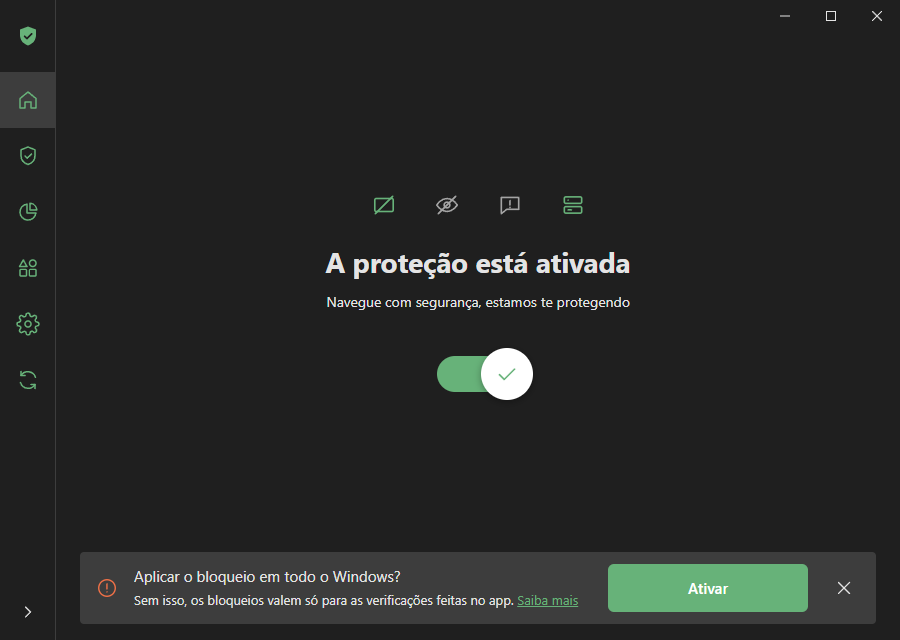
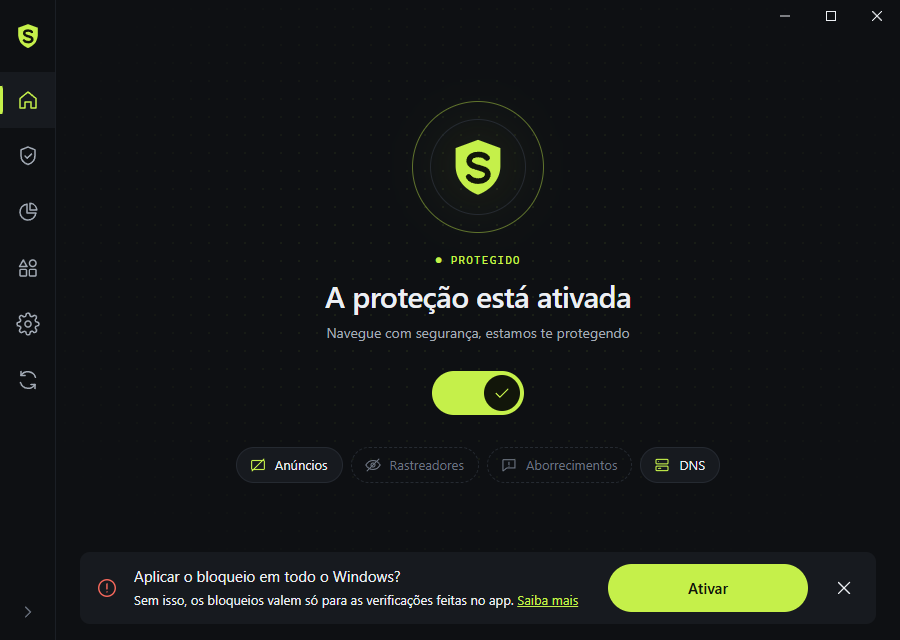
doc

diff --git a/README.md b/README.md
@@ -1,0 +1,132 @@
+<p align="center">
+  <img src="icons/icon.png" width="96" alt="StrickerGuard" />
+</p>
+
+<h1 align="center">StrickerGuard</h1>
+
+<p align="center">Bloqueador de anúncios, rastreadores e sites perigosos para Windows.</p>
+
+<p align="center">
+  <img src="shots/now.png" width="600" alt="Tela inicial" />
+</p>
+
+StrickerGuard é um app de bandeja para Windows feito com Tauri 2 (Rust) e TypeScript + Tailwind.
+Ele baixa listas de filtros públicas, avalia as regras localmente e, se você permitir, aplica o
+bloqueio no Windows inteiro pelo arquivo `hosts` e pela troca do servidor DNS.
+
+## Recursos
+
+- **Bloqueio de anúncios**, **proteção contra rastreamento**, **bloqueio de aborrecimentos**
+  (avisos de cookies, pop-ups, widgets) e **segurança da navegação** (phishing e malware).
+- **Proteção de DNS**: escolha de servidor DNS (com teste de latência) e regras de DNS próprias.
+- **Controle parental** com lista de bloqueio própria.
+- **Regras de usuário** e **lista de permissões** de sites.
+- **Registro de filtragem**: teste uma URL ou domínio, veja por que foi bloqueado e crie uma regra
+  de bloquear/desbloquear com um clique.
+- **Estatísticas** por período (24 h, 7 d, 14 d, tudo), domínios mais bloqueados e apps.
+- **Gerenciamento de aplicativos**: escolha quais `.exe` têm o tráfego filtrado.
+- Ícone na bandeja que muda conforme a proteção, opção de iniciar com o Windows, tema claro/escuro.
+
+## Como o bloqueio funciona
+
+| Camada | O que faz | Precisa de admin |
+| --- | --- | --- |
+| Motor de regras (`src/engine.rs`) | Lê regras no formato adblock, linhas de hosts e regras de DNS, e responde se uma URL/host é bloqueado. Usado pelo Registro de filtragem e pelas estatísticas. | Não |
+| Arquivo `hosts` | Grava os domínios bloqueados (até 50.000) num bloco delimitado em `C:\Windows\System32\drivers\etc\hosts` e roda `ipconfig /flushdns`. Ao desligar, o bloco é removido. | Sim |
+| DNS do sistema | Troca o DNS dos adaptadores ativos pelo servidor escolhido (PowerShell `Set-DnsClientServerAddress`); volta ao automático ao desligar. | Sim |
+
+O bloqueio no sistema é opcional ("Aplicar o bloqueio em todo o Windows?" na tela inicial). Sem
+permissão de administrador o app funciona, mas os bloqueios valem só para as verificações feitas
+dentro dele. O botão **Abrir como admin** reinicia o app elevado e substitui a cópia sem
+permissão.
+
+> Se o app roda como administrador e ainda assim não consegue gravar no `hosts`, o arquivo está
+> travado (somente leitura, Windows Defender ou antivírus). O app avisa isso na tela inicial.
+
+As listas de filtros são baixadas de `filters.adtidy.org` e atualizadas automaticamente (ou pelo
+botão **Verificar atualizações** na barra lateral). Nenhum dado de navegação é enviado para fora.
+
+## Requisitos
+
+- Windows 10 ou 11 (x64) com WebView2 (já vem no Windows 11)
+- [Rust](https://rustup.rs) estável (toolchain MSVC)
+- [Node.js](https://nodejs.org) 20+
+- [WiX Toolset 3.14](https://wixtoolset.org) — só para gerar o instalador. O script procura em
+  `%WIX%\bin` ou em `%LOCALAPPDATA%\tauri\WixTools314`.
+
+## Desenvolvimento
+
+```powershell
+npm install
+
+# interface (TypeScript + Tailwind) -> dist/
+npm run build
+
+# app (Rust); o exe embute o conteúdo de dist/
+cargo build            # debug: target\debug\escudo.exe
+cargo run
+
+# testes do motor de regras
+cargo test
+```
+
+O frontend é empacotado no binário, então rode `npm run build` antes de `cargo build`/`cargo run`
+sempre que mudar algo em `web/`.
+
+### Opções de linha de comando
+
+| Opção | Efeito |
+| --- | --- |
+| `--minimized` | Inicia só na bandeja (usado ao iniciar com o Windows). |
+| `--route <tela>` | Abre direto numa tela, ex.: `protection/ads`, `stats`, `settings/log`. |
+| `--screenshot <arquivo.png>` | Desenha a janela, salva um PNG e fecha. Usa uma pasta de dados temporária e não mexe no sistema. |
+
+Exemplo: `target\release\escudo.exe --route stats --screenshot stats.png`
+
+## Gerar o instalador (MSI)
+
+```powershell
+npm run build
+cargo build --release
+powershell -NoProfile -ExecutionPolicy Bypass -File installer\build-msi.ps1
+```
+
+Saída: `target\release\bundle\msi\StrickerGuard_<versão>_x64_pt-BR.msi`. Ele instala para todos
+os usuários em `C:\Program Files\StrickerGuard\StrickerGuard.exe` e cria atalhos no Menu Iniciar e
+na área de trabalho.
+
+## Estrutura
+
+```text
+src/                 backend Rust
+  main.rs            inicialização, comandos chamados pela interface, aplicação no sistema
+  engine.rs          motor de regras (adblock, hosts, DNS) + testes
+  catalog.rs         catálogo de listas de filtros e servidores DNS
+  state.rs           configurações, registro de filtragem, listas ativas
+  system.rs          hosts, DNS, iniciar com o Windows, checagem de admin
+  tray.rs            ícone e menu da bandeja
+  shot.rs            captura de tela (--screenshot)
+web/                 interface
+  index.html
+  src/main.ts        shell (barra lateral, título, rotas, ações)
+  src/pages.ts       todas as telas
+  src/ui.ts          componentes (linhas, switches, botões)
+  src/icons.ts       ícones SVG e o símbolo da marca
+  src/style.css      tokens de cor e tipografia (Tailwind 4)
+  src/api.ts         chamadas aos comandos do Rust
+icons/               ícone do app e da bandeja (ligado/desligado)
+installer/           receita WiX e script do MSI
+shots/               capturas de tela
+```
+
+## Dados
+
+Configurações, listas baixadas e o registro de filtragem ficam em
+`%APPDATA%\app.escudo.blocker`. Alguns nomes internos ainda usam "escudo" (identificador do
+app, nome do binário, marcador no `hosts`, chave de inicialização no registro). Eles foram
+mantidos para que atualizações não percam configurações nem deixem um bloco antigo no `hosts`.
+
+## Créditos
+
+As listas de filtros são mantidas pelos seus autores e distribuídas em `filters.adtidy.org`, cada
+uma com a própria licença.
